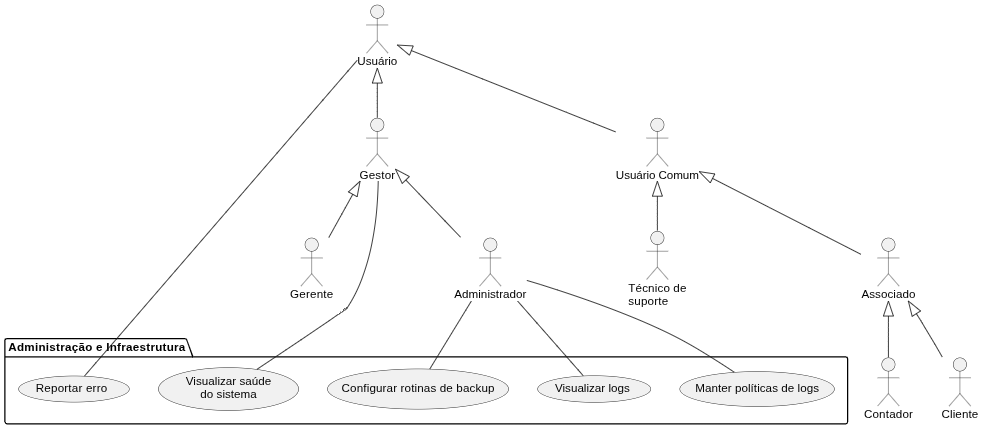
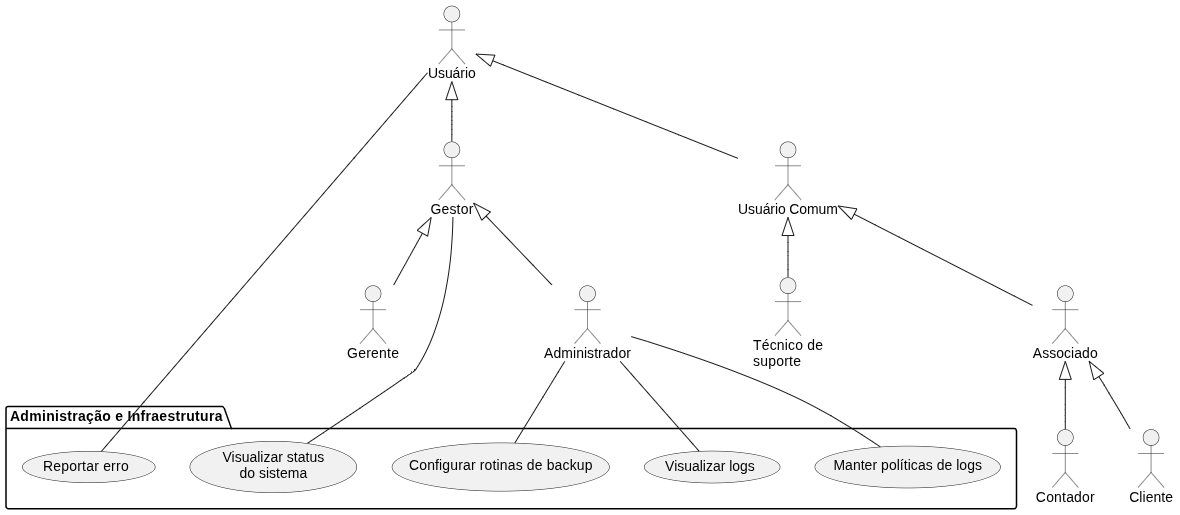
fix: change system health to status

diff --git a/specs/usecases/adm/especificacao_visualizar_saude_sistema.md b/specs/usecases/adm/especificacao_visualizar_saude_sistema.md
@@ -4,7 +4,7 @@
       <td><strong>Caso de uso</strong></td>
       <td>
         <strong
-          ><span><a>UC28 - Visualizar saúde do sistema</a></span></strong
+          ><span><a>UC28 - Visualizar status do sistema</a></span></strong
         >
       </td>
     </tr>
@@ -20,7 +20,7 @@
     </tr>
     <tr>
       <td><strong>Atores</strong></td>
-      <td>Administrador</td>
+      <td>Gestor</td>
     </tr>
     <tr>
       <td><strong>Condições de entrada</strong></td>
@@ -33,7 +33,7 @@
       <td>
         <ol>
           <li>
-            O ator se encontra na área de configurações e acessa o menu "Saúde do sistema". Ele vê um painel com indicadores gerais (recursos utilizados, módulos funcionando, tempo médio de resposta, disponibilidade, usuários ativos) e a data/hora da última atualização.
+            O ator se encontra na área de configurações e acessa o menu "Status do sistema". Ele vê um painel com indicadores gerais (recursos utilizados, módulos funcionando, tempo médio de resposta, disponibilidade, usuários ativos) e a data/hora da última atualização.
           </li>
           <li>
             O ator verifica que cada módulo mostra o status (OK/Degradado/Indisponível) com cor/ícone, além de métricas resumidas (por exemplo, uso de CPU/memória, latência média, taxa de erros).
